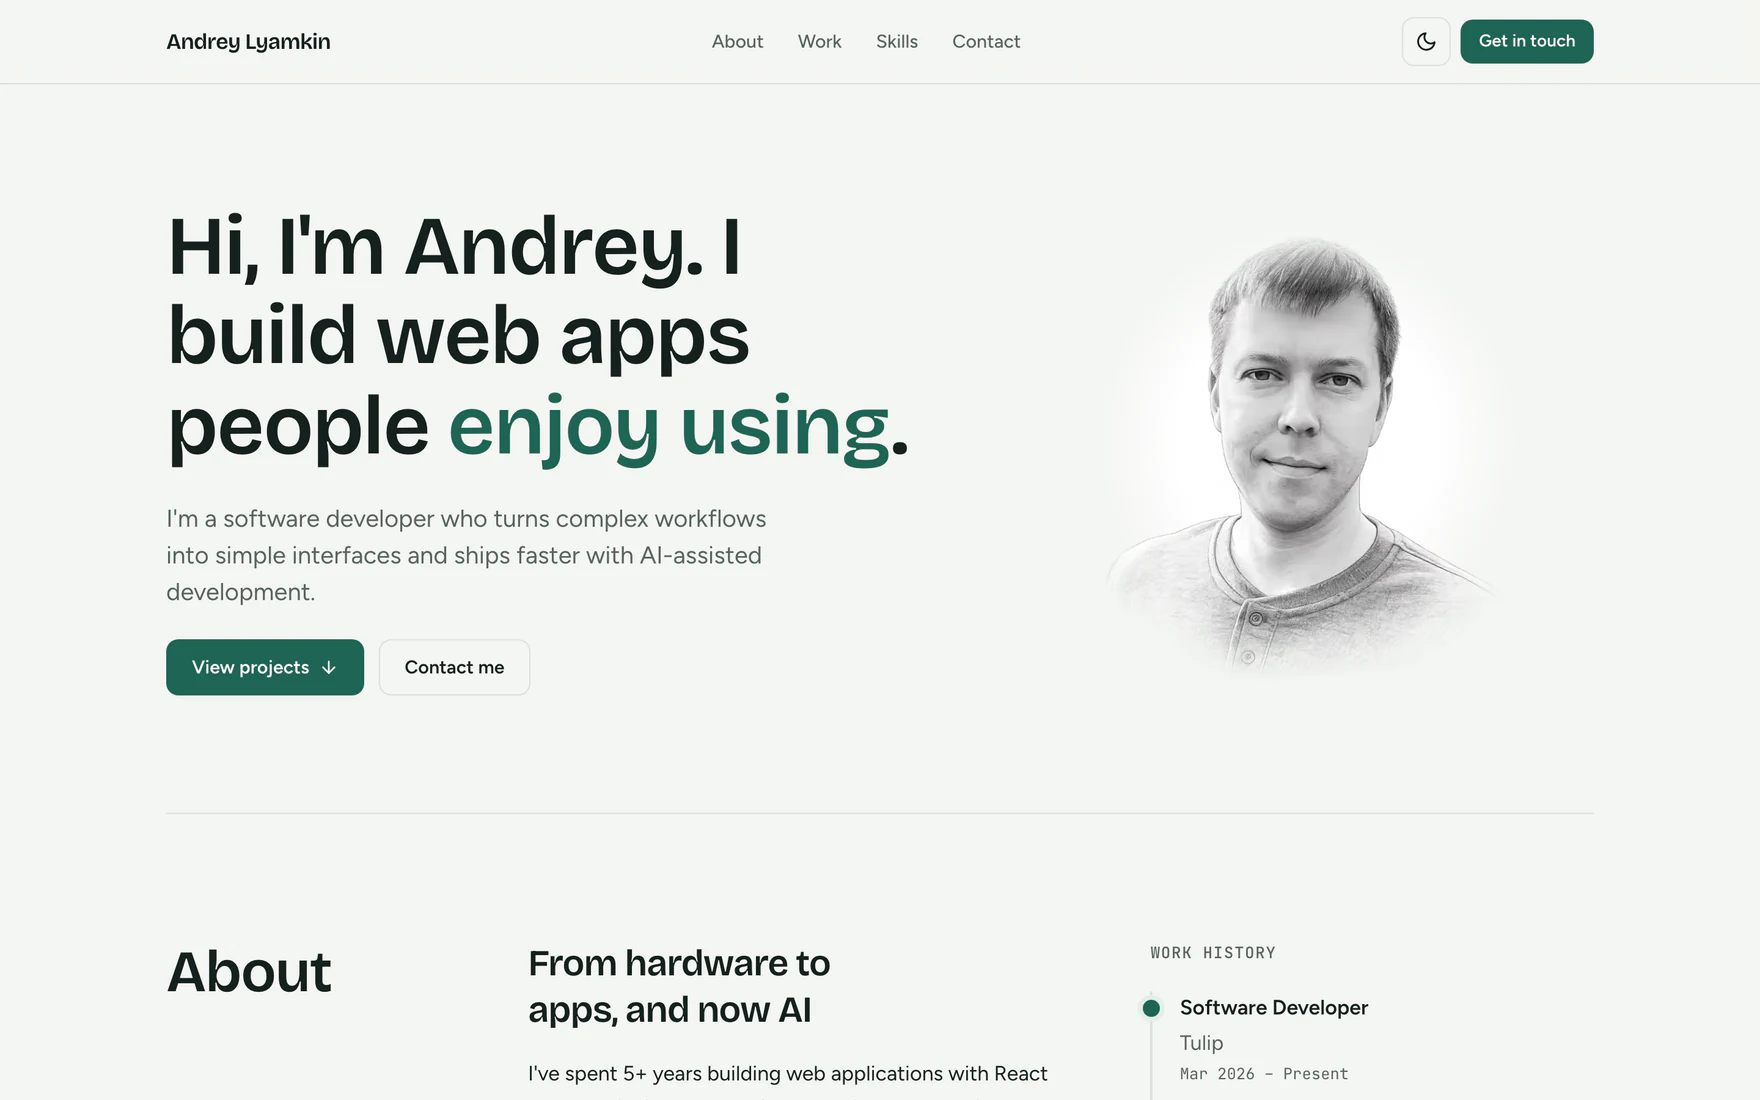
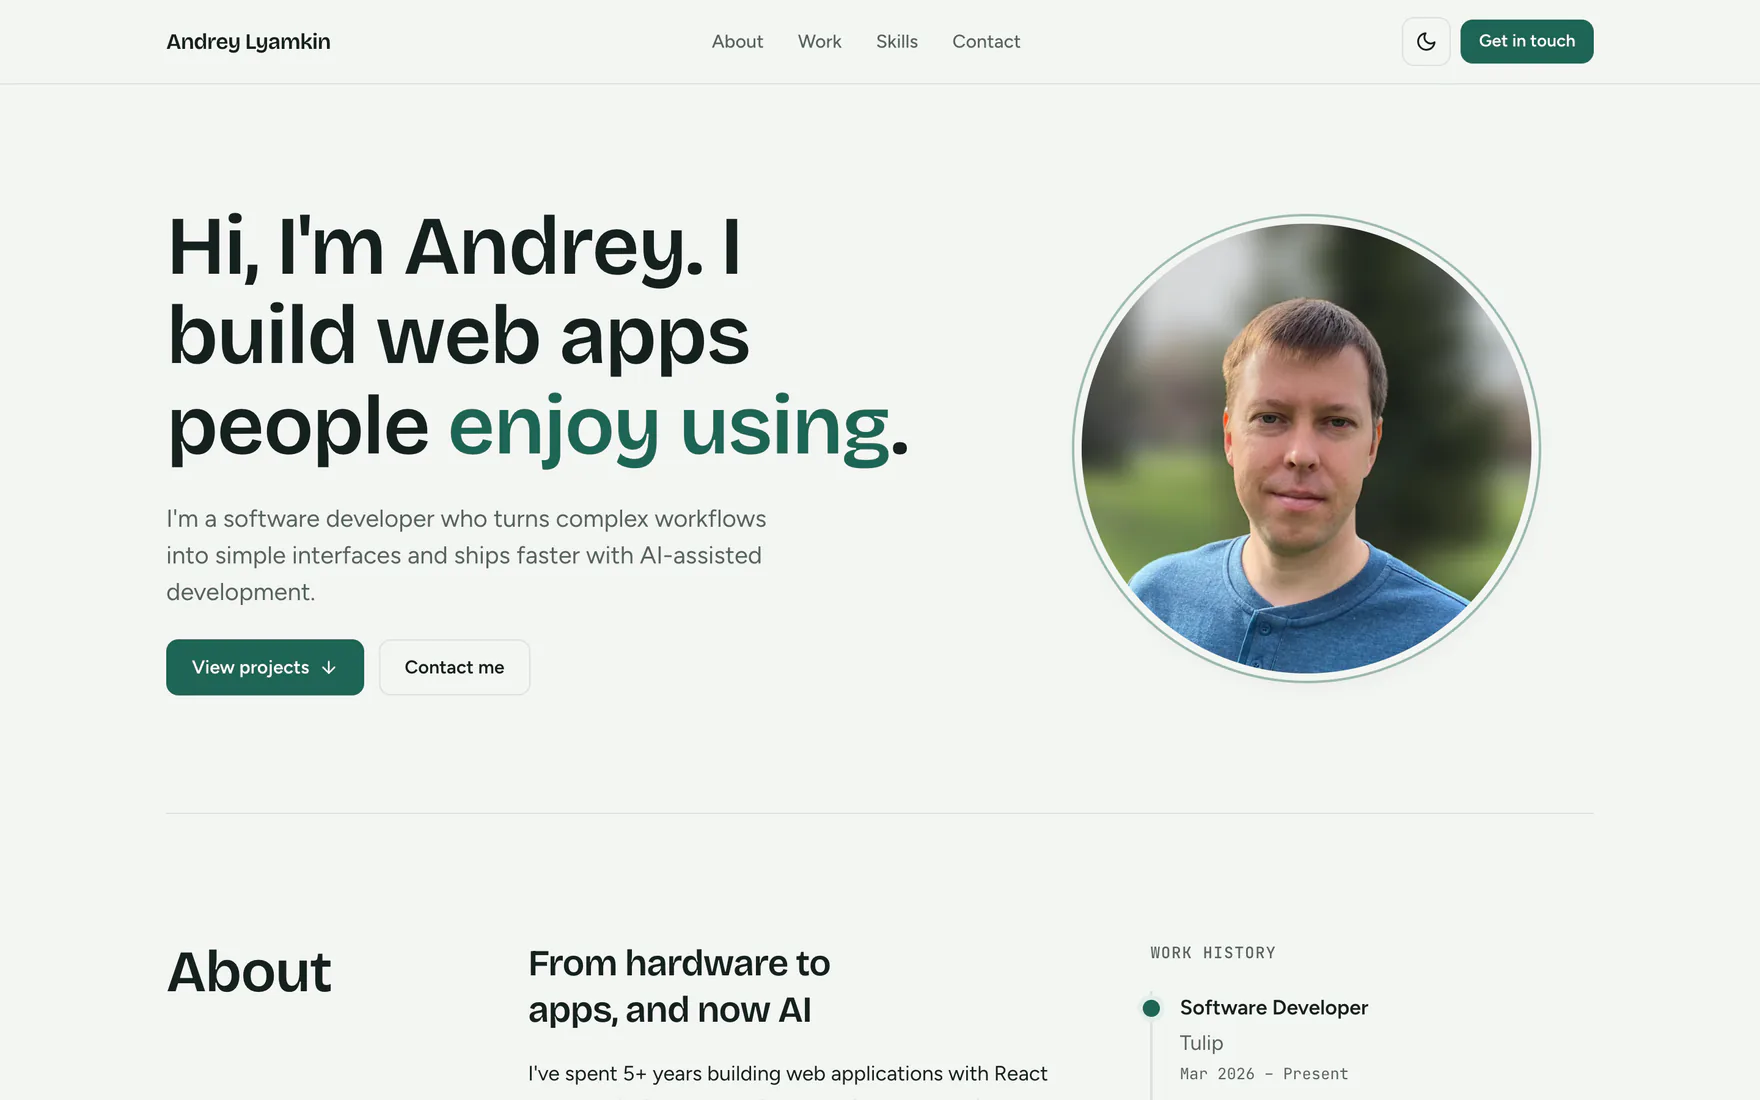
Update portrait image

Changed region(s): [[0.5938, 0.1855, 0.875, 0.6182]]

diff --git a/components/sections/Hero.tsx b/components/sections/Hero.tsx
@@ -30,19 +30,19 @@ const Hero = () => (
 
       <div
         className={clsx(
-          'relative mx-auto w-full max-w-99',
-          'before:absolute before:inset-[4%_6%_8%] before:rounded-full before:bg-[radial-gradient(closest-side,var(--halo)_62%,transparent)]',
-          'dark:aspect-square dark:max-w-84 dark:overflow-hidden dark:rounded-full dark:bg-(--halo) dark:ring-2 dark:ring-accent/50 dark:ring-offset-6 dark:ring-offset-bg dark:before:hidden',
+          'relative mx-auto aspect-square w-full max-w-92 overflow-hidden rounded-full bg-accent-soft',
+          'ring-2 ring-accent/40 ring-offset-6 ring-offset-bg shadow-card',
         )}
       >
         <Image
           src={portrait}
-          alt="Pencil-style portrait of Andrey Lyamkin"
-          sizes="(min-width: 448px) 396px, calc(100vw - 2rem)"
-          quality={60}
+          alt="Portrait of Andrey Lyamkin"
+          placeholder="blur"
+          sizes="(min-width: 400px) 368px, calc(100vw - 2rem)"
+          quality={95}
           loading="eager"
           fetchPriority="high"
-          className="relative h-auto w-full [mask-image:radial-gradient(closest-side_at_50%_52%,#000_72%,transparent)] dark:mask-none dark:brightness-90"
+          className="size-full object-cover dark:brightness-95"
         />
       </div>
     </div>

diff --git a/app/manifest.ts b/app/manifest.ts
@@ -11,6 +11,9 @@ export default function manifest(): MetadataRoute.Manifest {
     display: 'browser',
     background_color: '#f3f5f2',
     theme_color: '#1d6555',
-    icons: [{ src: '/favicon.ico', sizes: 'any', type: 'image/x-icon' }],
+    icons: [
+      { src: '/favicon.ico', sizes: '16x16 32x32 48x48', type: 'image/x-icon' },
+      { src: '/icon.png', sizes: '512x512', type: 'image/png' },
+    ],
   };
 }

diff --git a/styles/globals.css b/styles/globals.css
@@ -13,7 +13,6 @@
   --accent-soft: light-dark(#e2eee9, #15302a);
   --amber: light-dark(#8a5210, #e5a75c);
   --amber-soft: light-dark(#f6ebdc, #2e2416);
-  --halo: light-dark(#ffffff, #e4ebe7);
   --band: light-dark(#14211e, #17241f);
   --band-ink: #eef3f0;
   --band-muted: #a7b6b1;
